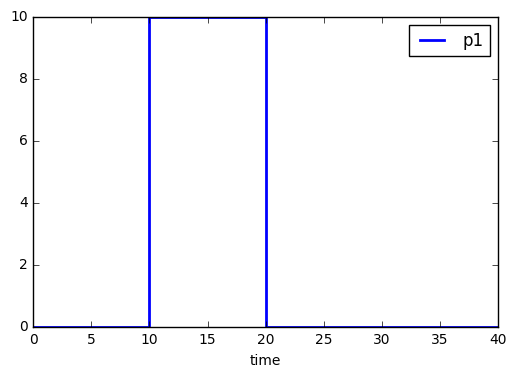
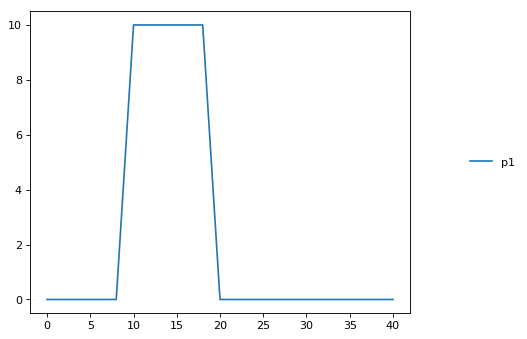
add example for simulating antimony

diff --git a/docs/_notebooks/core/antimonyExample.rst b/docs/_notebooks/core/antimonyExample.rst
@@ -1,9 +1,18 @@
 
 
-Antimony model building
-~~~~~~~~~~~~~~~~~~~~~~~
+Simulating Models
+~~~~~~~~~~~~~~~~~
 
-Description Text
+Antimony models can be converted into a ``RoadRunner`` instance, which
+can be used to simulate the model. The function ``loada`` converts
+Antimony into a simulator instance. This example shows how to get the
+Antimony / SBML representation of the current state of the model. After
+running a simulation, the concentraions of the state variables will
+change. You can retrieve the Antimony representation of the current
+state of the model using ``getCurrentAntimony`` on the ``RoadRunner``
+instance. This example shows the change in the Antimony / SBML
+representation. The example also shows how to use variable stepping in a
+simulation.
 
 .. code:: python
 
@@ -21,204 +30,122 @@ Description Text
     end
     ''')
     
-    # look at model
-    ant_str = r.getCurrentAntimony()
-    sbml_str = r.getCurrentSBML()
-    print(ant_str)
-    print(sbml_str)
-    # r.exportToSBML('/home/mkoenig/Desktop/test.xml')
+    # convert current state of model back to Antimony / SBML
+    ant_str_before = r.getCurrentAntimony()
+    sbml_str_before = r.getCurrentSBML()
+    # r.exportToSBML('/path/to/test.xml')
     
     # set selections
     r.selections=['time', 'p1']
     r.integrator.setValue("variable_step_size", False)
+    r.resetAll()
     s1 = r.simulate(0, 40, 40)
     r.plot()
-    print(s1)
     # hitting the trigger point directly works
+    r.resetAll()
     s2 = r.simulate(0, 40, 21)
     r.plot()
-    print(s2)
     
     # variable step size also does not work
     r.integrator.setValue("variable_step_size", True)
+    r.resetAll()
     s3 = r.simulate(0, 40)
     r.plot()
-    print(s3)
+    
+    
+    # convert current state of model back to Antimony / SBML
+    ant_str_after = r.getCurrentAntimony()
+    sbml_str_after = r.getCurrentSBML()
+    
+    import difflib
+    print("Comparing Antimony at time 0 & 40 (expect no differences)")
+    print('\n'.join(list(difflib.unified_diff(ant_str_before.splitlines(), ant_str_after.splitlines(), fromfile="before.sb", tofile="after.sb"))))
+    
+    # now simulate up to time 15
+    r.resetAll()
+    s4 = r.simulate(0, 15)
+    r.plot()
+    
+    
+    # convert current state of model back to Antimony / SBML
+    ant_str_after2 = r.getCurrentAntimony()
+    sbml_str_after2 = r.getCurrentSBML()
+    
+    print("Comparing Antimony at time 0 & 15")
+    print('\n'.join(list(difflib.unified_diff(ant_str_before.splitlines(), ant_str_after2.splitlines(), fromfile="before.sb", tofile="after.sb"))))
+
+
+.. parsed-literal::
+
+    /home/poltergeist/.config/Tellurium/telocal/python-3.6.1/lib/python3.6/site-packages/matplotlib/__init__.py:1405: UserWarning: 
+    This call to matplotlib.use() has no effect because the backend has already
+    been chosen; matplotlib.use() must be called *before* pylab, matplotlib.pyplot,
+    or matplotlib.backends is imported for the first time.
+    
+      warnings.warn(_use_error_msg)
+
+
+
+.. raw:: html
+
+    <script>requirejs.config({paths: { 'plotly': ['https://cdn.plot.ly/plotly-latest.min']},});if(!window.Plotly) {{require(['plotly'],function(plotly) {window.Plotly=plotly;});}}</script>
+
+
+.. parsed-literal::
+
+    /home/poltergeist/.config/Tellurium/telocal/python-3.6.1/lib/python3.6/site-packages/matplotlib/__init__.py:1405: UserWarning:
+    
+    
+    This call to matplotlib.use() has no effect because the backend has already
+    been chosen; matplotlib.use() must be called *before* pylab, matplotlib.pyplot,
+    or matplotlib.backends is imported for the first time.
+    
+    
 
 
 .. parsed-literal::
 
     --------------------------------------------------------------------------------
-    tellurium : 1.3.5
-    roadrunner : 1.4.8; Compiler: gcc 5.4.0, C++ version: 199711; JIT Compiler: LLVM-3.5; Date: Oct 21 2016, 09:52:28; LibSBML Version: 5.13.0
-    antimony : v2.9.0
-    snbw_viewer : No information for sbnw viewer
-    libsbml : 5.14.1
+    tellurium : 2.0.0
+    roadrunner : 1.4.21; Compiler: gcc 4.8.2, C++ version: 199711; JIT Compiler: LLVM-3.3; Date: Jul  5 2017, 18:38:02; LibSBML Version: 5.14.0
+    antimony : 2.9.3
+    libsbml : 5.15.0
     libsedml : 402
-    phrasedml : v1.0.3
+    phrasedml : 1.0.7
     --------------------------------------------------------------------------------
-    // Created by libAntimony v2.9.0
-    model *example()
+    Comparing Antimony at time 0 & 40 (expect no differences)
     
-      // Events:
-      _E0: at time >= 10: p1 = 10;
-      _E1: at time >= 20: p1 = 0;
+    Comparing Antimony at time 0 & 15
+    --- before.sb
     
-      // Variable initializations:
-      p1 = 0;
+    +++ after.sb
     
-      // Other declarations:
-      var p1;
-    end
+    @@ -6,7 +6,7 @@
     
-    <?xml version="1.0" encoding="UTF-8"?>
-    <sbml xmlns="http://www.sbml.org/sbml/level3/version1/core" level="3" version="1">
-      <model id="example" name="example">
-        <listOfParameters>
-          <parameter id="p1" value="0" constant="false"/>
-        </listOfParameters>
-        <listOfEvents>
-          <event id="_E0" useValuesFromTriggerTime="true">
-            <trigger initialValue="true" persistent="true">
-              <math xmlns="http://www.w3.org/1998/Math/MathML">
-                <apply>
-                  <geq/>
-                  <csymbol encoding="text" definitionURL="http://www.sbml.org/sbml/symbols/time"> time </csymbol>
-                  <cn type="integer"> 10 </cn>
-                </apply>
-              </math>
-            </trigger>
-            <listOfEventAssignments>
-              <eventAssignment variable="p1">
-                <math xmlns="http://www.w3.org/1998/Math/MathML">
-                  <cn type="integer"> 10 </cn>
-                </math>
-              </eventAssignment>
-            </listOfEventAssignments>
-          </event>
-          <event id="_E1" useValuesFromTriggerTime="true">
-            <trigger initialValue="true" persistent="true">
-              <math xmlns="http://www.w3.org/1998/Math/MathML">
-                <apply>
-                  <geq/>
-                  <csymbol encoding="text" definitionURL="http://www.sbml.org/sbml/symbols/time"> time </csymbol>
-                  <cn type="integer"> 20 </cn>
-                </apply>
-              </math>
-            </trigger>
-            <listOfEventAssignments>
-              <eventAssignment variable="p1">
-                <math xmlns="http://www.w3.org/1998/Math/MathML">
-                  <cn type="integer"> 0 </cn>
-                </math>
-              </eventAssignment>
-            </listOfEventAssignments>
-          </event>
-        </listOfEvents>
-      </model>
-    </sbml>
-    
+       _E1: at time >= 20: p1 = 0;
+     
+       // Variable initializations:
+    -  p1 = 0;
+    +  p1 = 10;
+     
+       // Other declarations:
+       var p1;
 
 
 
-.. image:: _notebooks/core/antimonyExample_files/antimonyExample_2_1.png
-
-
-.. parsed-literal::
-
-           time, p1
-     [[       0,  0],
-      [ 1.02564,  0],
-      [ 2.05128,  0],
-      [ 3.07692,  0],
-      [ 4.10256,  0],
-      [ 5.12821,  0],
-      [ 6.15385,  0],
-      [ 7.17949,  0],
-      [ 8.20513,  0],
-      [ 9.23077,  0],
-      [ 10.2564, 10],
-      [ 11.2821, 10],
-      [ 12.3077, 10],
-      [ 13.3333, 10],
-      [  14.359, 10],
-      [ 15.3846, 10],
-      [ 16.4103, 10],
-      [ 17.4359, 10],
-      [ 18.4615, 10],
-      [ 19.4872, 10],
-      [ 20.5128,  0],
-      [ 21.5385,  0],
-      [ 22.5641,  0],
-      [ 23.5897,  0],
-      [ 24.6154,  0],
-      [  25.641,  0],
-      [ 26.6667,  0],
-      [ 27.6923,  0],
-      [ 28.7179,  0],
-      [ 29.7436,  0],
-      [ 30.7692,  0],
-      [ 31.7949,  0],
-      [ 32.8205,  0],
-      [ 33.8462,  0],
-      [ 34.8718,  0],
-      [ 35.8974,  0],
-      [ 36.9231,  0],
-      [ 37.9487,  0],
-      [ 38.9744,  0],
-      [      40,  0]]
-    
-
-
-
-.. image:: _notebooks/core/antimonyExample_files/antimonyExample_2_3.png
-
-
-.. parsed-literal::
-
-        time, p1
-     [[    0,  0],
-      [    2,  0],
-      [    4,  0],
-      [    6,  0],
-      [    8,  0],
-      [   10, 10],
-      [   12, 10],
-      [   14, 10],
-      [   16, 10],
-      [   18, 10],
-      [   20,  0],
-      [   22,  0],
-      [   24,  0],
-      [   26,  0],
-      [   28,  0],
-      [   30,  0],
-      [   32,  0],
-      [   34,  0],
-      [   36,  0],
-      [   38,  0],
-      [   40,  0]]
-    
+.. image:: _notebooks/core/antimonyExample_files/antimonyExample_2_4.png
 
 
 
 .. image:: _notebooks/core/antimonyExample_files/antimonyExample_2_5.png
 
 
-.. parsed-literal::
 
-             time, p1
-     [[         0,  0],
-      [ 0.0013729,  0],
-      [        10,  0],
-      [        10, 10],
-      [   10.0011, 10],
-      [        20, 10],
-      [        20,  0],
-      [   20.0008,  0],
-      [   28.1642,  0],
-      [        40,  0]]
-    
+.. image:: _notebooks/core/antimonyExample_files/antimonyExample_2_6.png
+
+
+
+.. image:: _notebooks/core/antimonyExample_files/antimonyExample_2_7.png
 
 
 .. code:: python
@@ -230,17 +157,15 @@ Description Text
 
 .. parsed-literal::
 
-             time, p1
-     [[         0,  0],
-      [ 0.0013729,  0],
-      [        10,  0],
-      [        10, 10],
-      [   10.0011, 10],
-      [        20, 10],
-      [        20,  0],
-      [   20.0008,  0],
-      [   28.1642,  0],
-      [        40,  0]]
+               time, p1
+     [[           0,  0],
+      [ 0.000514839,  0],
+      [      5.1489,  0],
+      [          10,  0],
+      [          10, 10],
+      [     10.0002, 10],
+      [     12.2588, 10],
+      [          15, 10]]
 
 
 

diff --git a/docs/antimony.rst b/docs/antimony.rst
@@ -384,6 +384,11 @@ You may use units when defining formulas using the same syntax as above: any num
 
 
 
+Simulating Models
+=================
+
+.. include:: _notebooks/core/antimonyExample.rst
+
 ------------
 
 
